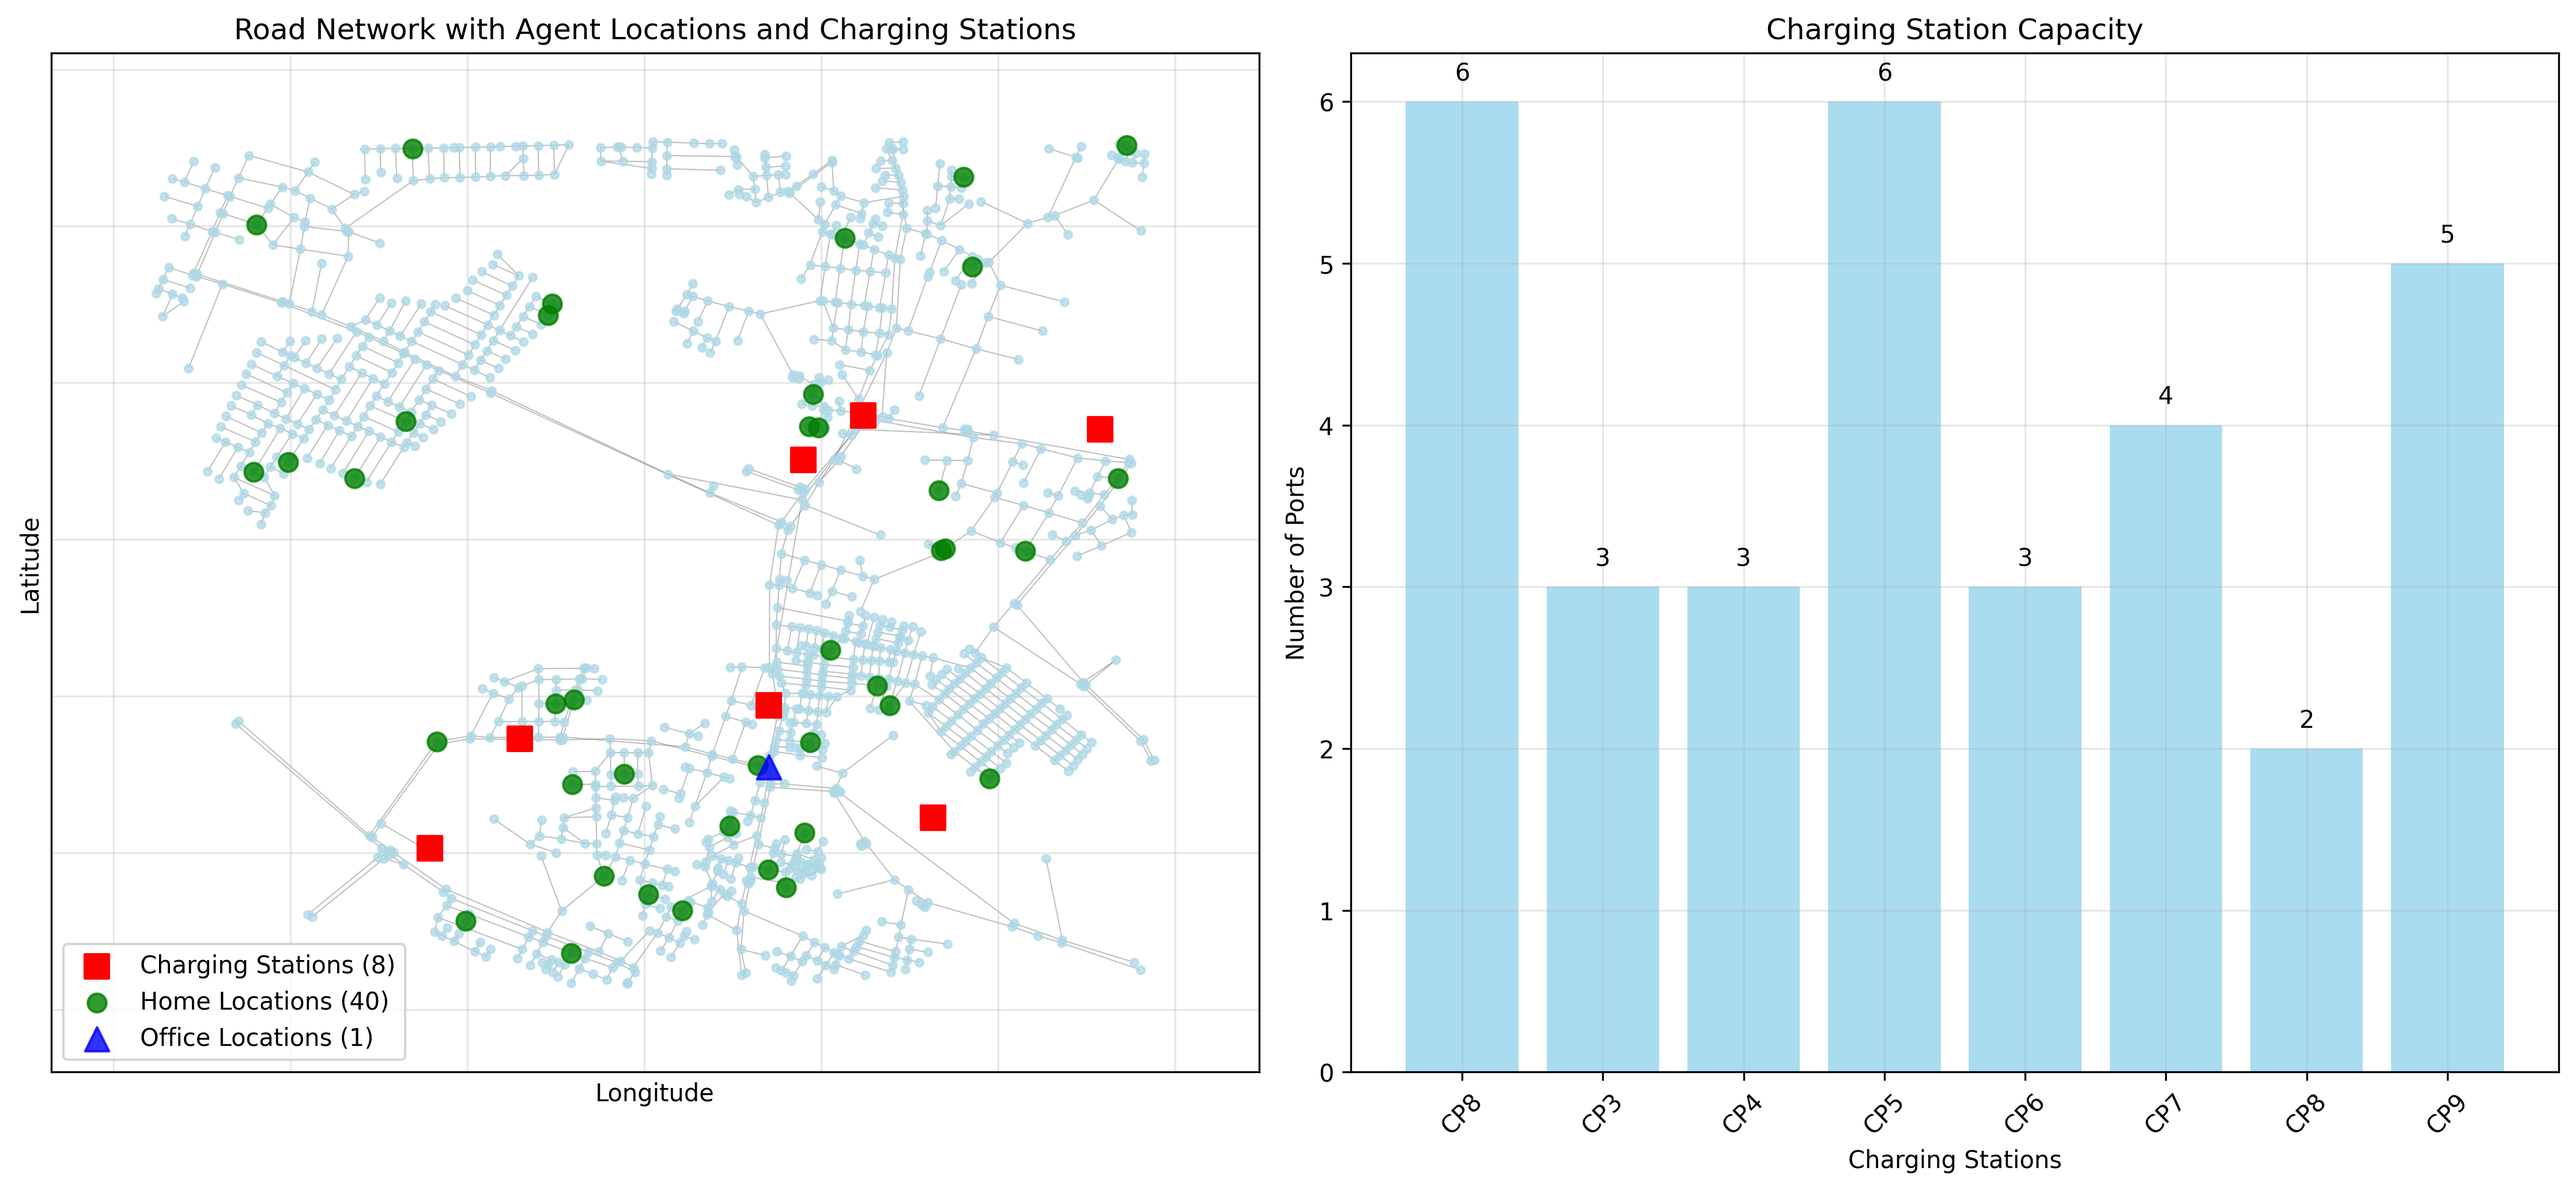
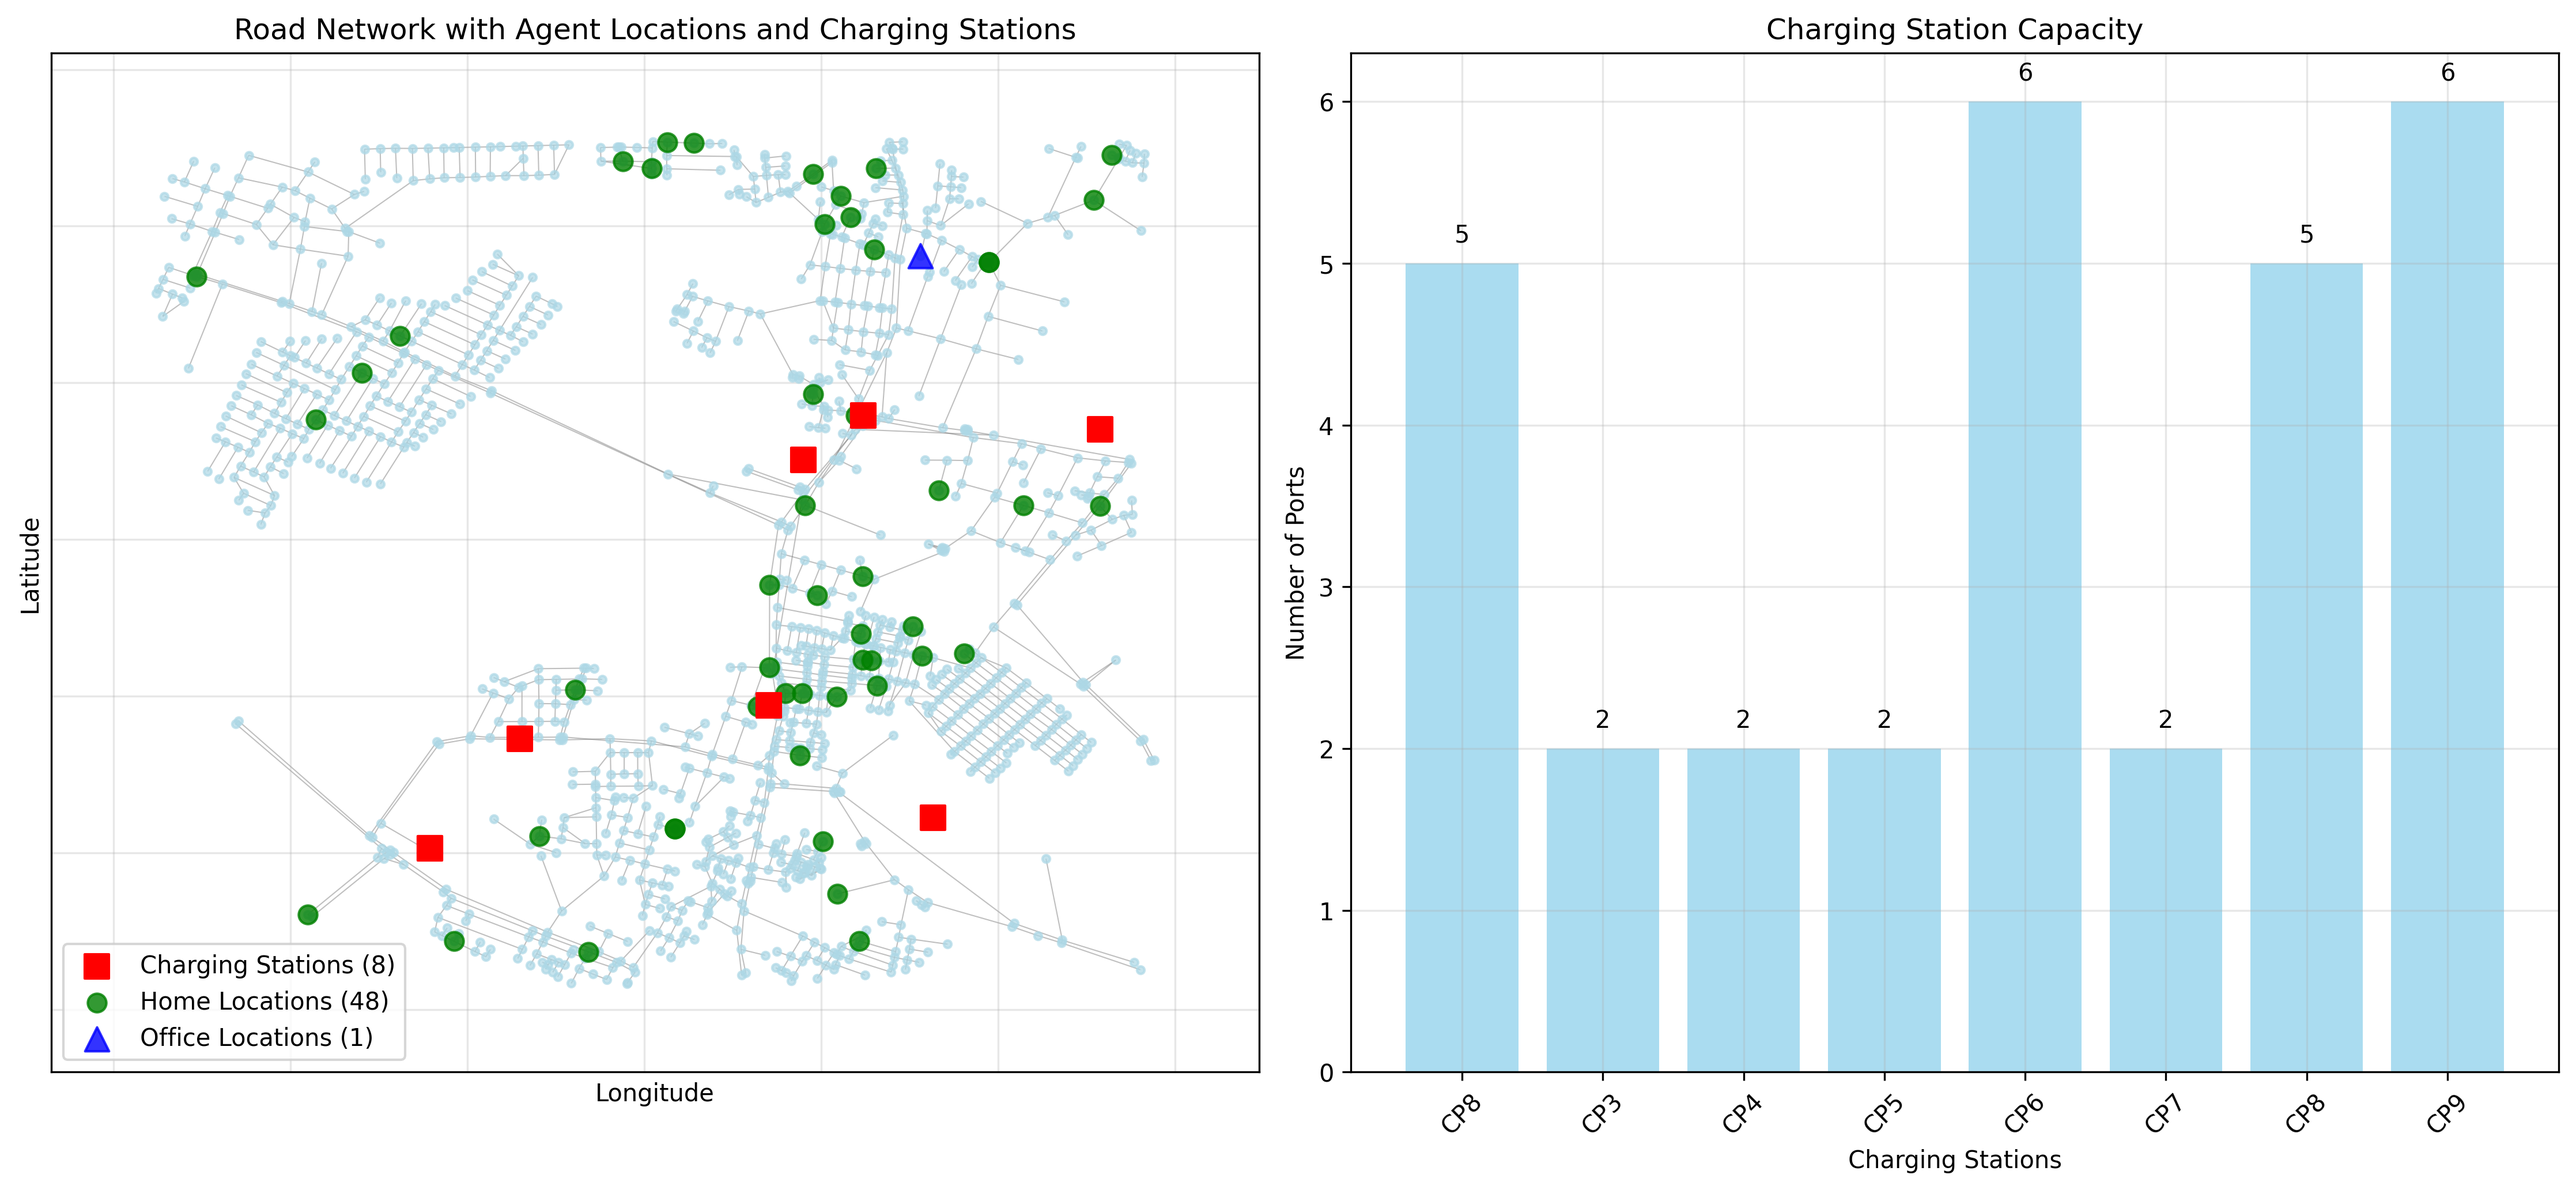
updated [evsim.py] for using speed as metric for mobility instead of nodes on the road

diff --git a/ev_simulation.py b/ev_simulation.py
@@ -89,8 +89,13 @@ class EVAgent:
         self.battery_capacity = 100.0  # kWh
         self.current_battery = random.uniform(20, 80)  # Start with lower random charge
         self.low_battery_threshold = 30.0
-        self.consumption_rate = 2.0  # kWh per km (higher consumption for demo)
+        self.consumption_rate = 5.0  # kWh per km (realistic consumption rate)
         self.charging_rate = 50.0  # kWh per hour (fast charging)
+        
+        # Movement parameters (in km/h and km)
+        self.speed = 25.0  # Average speed in km/h
+        self.distance_this_step = 0.0  # Distance to cover in current step
+        self.partial_edge_progress = 0.0  # For partial movement along an edge
         
         # State management
         self.state = "at_home"  # at_home, commuting_to_office, at_office, commuting_to_home, charging, waiting_to_charge
@@ -188,30 +193,60 @@ class EVAgent:
         return nearest_node
     
     def move_along_path(self):
-        """Move agent along the current path"""
+        """Move agent along the current path based on speed and time step"""
         if not self.path or self.path_index >= len(self.path) - 1:
             return False
         
-        current_node = self.path[self.path_index]
-        next_node = self.path[self.path_index + 1]
+        # Calculate distance to move this step (in km)
+        # speed is in km/h, simulation_step is in minutes, so convert to km/step
+        simulation_step_minutes = 10  # Should match the simulation step in EVSimulation.step()
+        distance_this_step = (self.speed / 60.0) * simulation_step_minutes  # km
+        distance_remaining = distance_this_step
         
-        # Calculate distance and battery consumption
-        if self.road_network.has_edge(current_node, next_node):
+        while distance_remaining > 0 and self.path_index < len(self.path) - 1:
+            current_node = self.path[self.path_index]
+            next_node = self.path[self.path_index + 1]
+            
+            if not self.road_network.has_edge(current_node, next_node):
+                self.path_index += 1
+                continue
+                
             edge_data = self.road_network[current_node][next_node]
-            distance_km = edge_data.get('length', 100) / 1000  # Convert to km
-            battery_consumed = distance_km * self.consumption_rate
+            edge_length = edge_data.get('length', 100)  # in meters
+            edge_length_km = edge_length / 1000.0  # convert to km
             
-            # Update battery and position
-            self.current_battery -= battery_consumed
-            self.path_index += 1
+            # Calculate how much of this edge we can cover
+            edge_remaining = edge_length_km - self.partial_edge_progress
+            distance_to_move = min(distance_remaining, edge_remaining)
             
-            # Update current location
-            node_data = self.road_network.nodes[next_node]
-            self.current_location = Location(node_data['y'], node_data['x'], next_node)
+            # Update position along edge
+            self.partial_edge_progress += distance_to_move
+            distance_remaining -= distance_to_move
             
-            return True
+            # Calculate battery consumption
+            battery_consumed = distance_to_move * self.consumption_rate
+            self.current_battery = max(0, self.current_battery - battery_consumed)
+            
+            # If we've reached the end of this edge
+            if self.partial_edge_progress >= edge_length_km - 1e-6:  # Small epsilon for floating point comparison
+                self.path_index += 1
+                self.partial_edge_progress = 0.0
+                
+                # Update current location to the next node
+                node_data = self.road_network.nodes[next_node]
+                self.current_location = Location(node_data['y'], node_data['x'], next_node)
+            else:
+                # Calculate intermediate position along the edge
+                ratio = self.partial_edge_progress / edge_length_km
+                start_node_data = self.road_network.nodes[current_node]
+                end_node_data = self.road_network.nodes[next_node]
+                
+                # Linear interpolation of coordinates
+                lat = start_node_data['y'] + ratio * (end_node_data['y'] - start_node_data['y'])
+                lon = start_node_data['x'] + ratio * (end_node_data['x'] - start_node_data['x'])
+                self.current_location = Location(lat, lon, node_id=None)  # Not at a node
         
-        return False
+        return distance_remaining < distance_this_step  # Return True if any movement occurred
     
     def update(self, current_time_minutes: int, charging_stations: List[ChargingStation]):
         """Update agent state based on time and conditions"""

diff --git a/visualize_simulation.py b/visualize_simulation.py
@@ -4,7 +4,7 @@ import networkx as nx
 from ev_simulation import EVSimulation
 import numpy as np
 
-agents_count = 40
+agents_count = 50
 
 def visualize_network_and_stations():
     """Create a visualization of the road network and charging stations"""
@@ -89,7 +89,7 @@ def run_and_visualize_simulation():
     time_data = []
     stats_data = []
     
-    duration_hours = 24
+    duration_hours = 48
     duration_minutes = duration_hours * 60
     
     print("Running simulation for visualization...")
